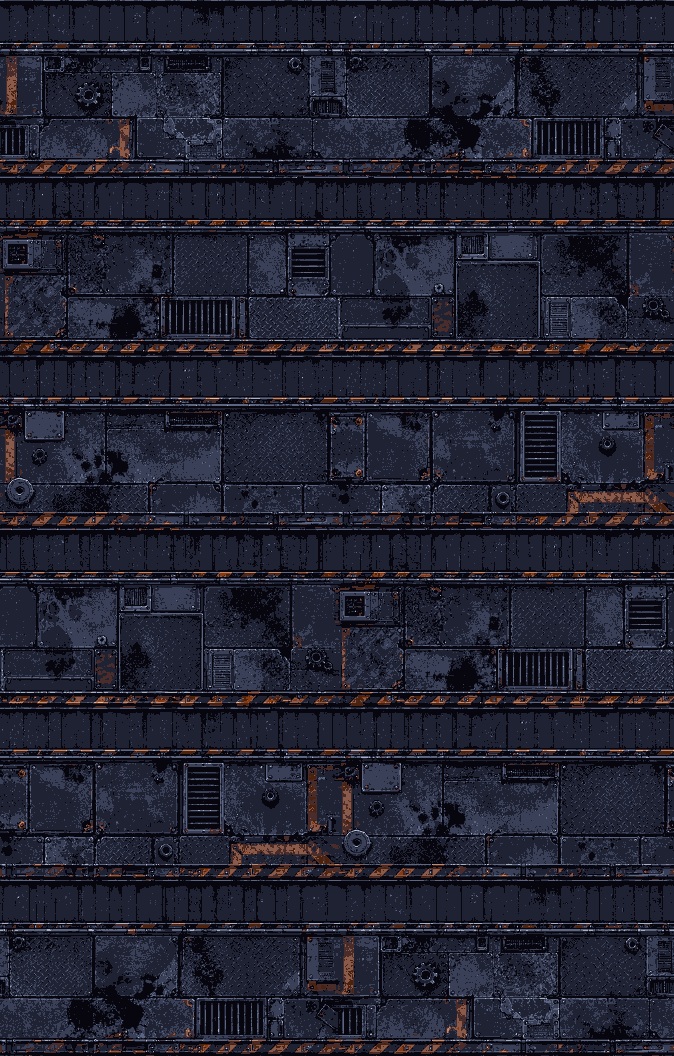
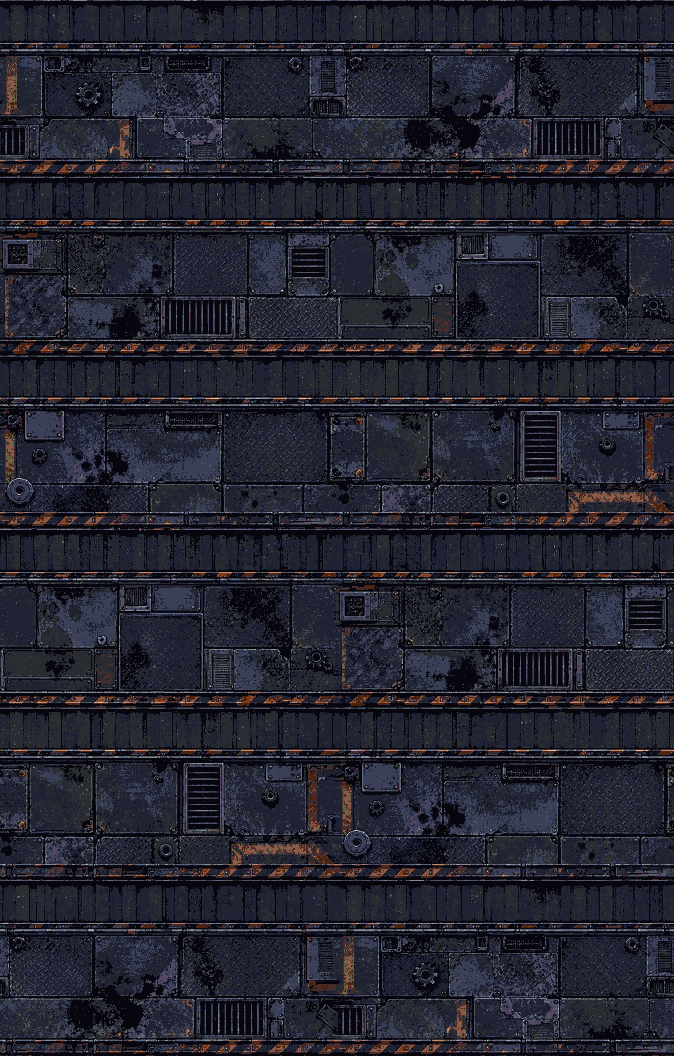
Shared 60-colour palette (character 39 + 21 mid-tones) for chapter grounds and hideout/title
Claude-Session: https://claude.ai/code/session_01KZt8jDAL2wEEWPwKQF5Ffo

diff --git a/tools/art/ground_from_ref.py b/tools/art/ground_from_ref.py
@@ -3,7 +3,7 @@
   이음새 근처만 살짝 섞어 끊김을 없앤다.
 - 2챕터: 컨베이어 띠가 게임 판정(game.json zoneRules.conveyor: period마다 band)과 정확히 겹치도록
   원본의 띠 간격(308px)을 period(176)로 맞춰 줄 단위로 다시 쌓는다. 높이 = period x 6.
-- BOX 축소 후 캐릭터와 같은 39색 팔레트(palx.PALX)로 칠한다. 아지트 배경도 같은 방식.
+- BOX 축소 후 공용 60색 팔레트(palx.PAL60 = 캐릭터 39색 + 중간 톤 21색)로 칠한다. 아지트 배경도 같은 방식.
 사용: python3 tools/art/ground_from_ref.py
 """
 import json, os, sys
@@ -24,9 +24,9 @@ def shrink(a, w, h):
 
 
 sys.path.insert(0, os.path.join(ROOT, 'tools', 'art', 'sprites2026', 'scripts', 'ext'))
-from palx import PALX  # 캐릭터·적 스프라이트와 같은 39색 팔레트
+from palx import PAL60  # 캐릭터 팔레트 39색 + 공용 중간 톤 21색
 
-PAL = np.array(PALX, np.float32)
+PAL = np.array(PAL60, np.float32)
 
 
 def to_lab(x):
@@ -42,7 +42,7 @@ PAL_LAB = to_lab(PAL)
 
 
 def quant(a, path, dim=1.0):
-    """캐릭터 팔레트(39색)에서 가장 가까운 색으로 (Lab 거리). 바닥에는 어두운 색만 자연스럽게 골라진다."""
+    """공용 60색 팔레트에서 가장 가까운 색으로 (Lab 거리). 바닥에는 어두운 색만 자연스럽게 골라진다."""
     a = (a * dim).astype(np.float32)
     flat = to_lab(a.reshape(-1, 3))
     idx = np.empty(len(flat), int)

diff --git a/tools/art/sprites2026/scripts/ext/palx.py b/tools/art/sprites2026/scripts/ext/palx.py
@@ -17,3 +17,8 @@ def nearx(m, skip_outline=True, skin=False):
 def hybrid(m, idx16, skin=False):
     """extended detail for darks, metals and shadows; the bright neon the sprite is recognised by stays"""
     return idx16 if idx16 in BRIGHT else nearx(m, skin=skin)
+
+# 60색 공용 팔레트: PALX(39) + 배경·스프라이트 원본에서 뽑은 중간 톤 21색. 배경(아지트·챕터 바닥)이 이걸 쓰고,
+# 스프라이트는 PALX(이 팔레트의 앞 39색)만 쓰므로 화면 전체가 같은 60색 안에 있다. 새 그림도 PAL60을 쓰면 된다.
+EXT60=["0C0C1F","317570","7432AC","EA3BED","23BCB7","292C31","E8E69E","C8CBCD","D320A6","25FCF6","252646","46095B","574964","52555C","83898F","0A0D2A","2A3A8A","361D2F","4D9FD2","645F42","AF817B"]
+PAL60=np.concatenate([PALX,np.array([[int(h[i:i+2],16) for i in (0,2,4)] for h in EXT60],float)])
